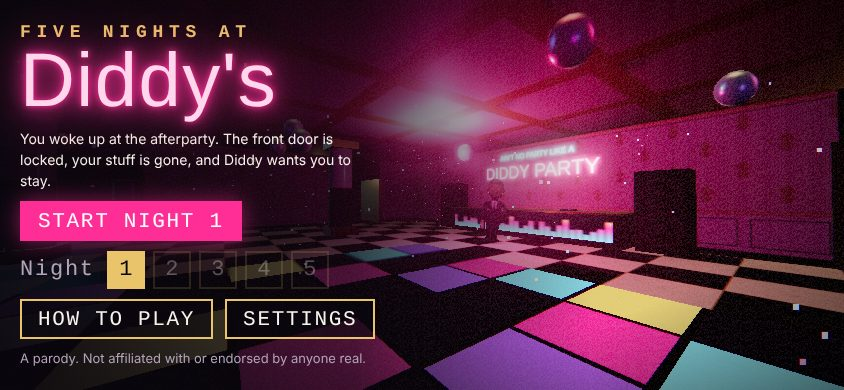
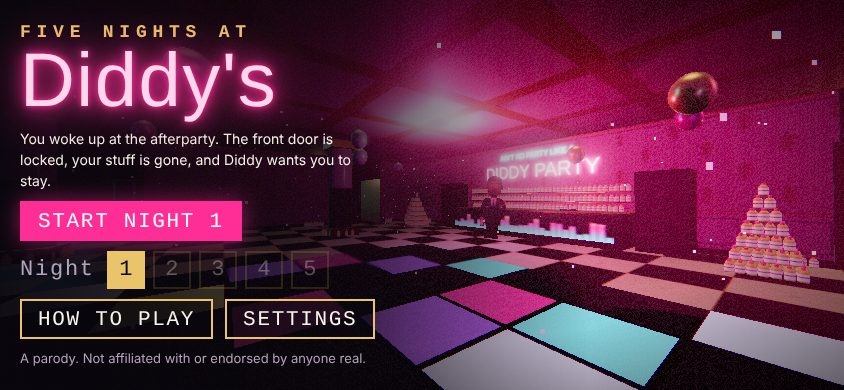
feat: fill Diddy's mansion with baby oil bottles
- ~2,800 background bottles as one instanced mesh: pyramids in corners,
  by the DJ booth and front door, rows along every wall, shelves behind
  the DJ and bar, counters, bookshelf tops, a few floating in the pool
- Bottle skin texture (label + pink cap); Low preset draws ~55%
- Pyramids are solid and block Diddy's nav grid like other furniture
- Fix: ignore Chrome's one-off mouse jump when pointer lock engages,
  which snapped the view upward at the start of a night
- How-to: only glowing bottles can be picked up

Design record: prototypes/five-nights-at-diddys-concept/README.md

Claude-Session: https://claude.ai/code/session_01KMQZugDVU7m4caByqHp5Df

diff --git a/prototypes/five-nights-at-diddys-concept/prototype.html b/prototypes/five-nights-at-diddys-concept/prototype.html
@@ -283,7 +283,7 @@ body.touch .desk-only, body:not(.touch) .touch-only { display: none; }
   <ul class="how">
     <li><b>Escape:</b> find your stuff (phone, wallet, car keys…), then get out the front door in the Grand Foyer.</li>
     <li><b>Or outlast him:</b> survive until 6 AM and the party's over.</li>
-    <li><b>Baby oil:</b> drop a puddle behind you. Diddy slips on it and goes down for a few seconds.</li>
+    <li><b>Baby oil:</b> the house is full of it, but you can only grab the bottles with a pink glow under them. Drop a puddle behind you and Diddy slips on it and goes down for a few seconds.</li>
     <li><b>Flashlight and CCTV</b> share one battery. Spare batteries are lying around.</li>
     <li><b>He hears you sprint</b>, and he spots your flashlight from further away.</li>
     <li><b>Grab the last item and he knows.</b> Run for the door.</li>
@@ -887,6 +887,11 @@ TEX.neonVip = texNeonText([['VIP', 150, 128, '#c85cff']], 512, 256);
 TEX.oilSign = texSign([['BABY OIL', 64, 58], ['1,000 BOTTLES · STAFF ONLY', 30, 124]]);
 TEX.noRun = texSign([['NO RUNNING', 58, 70], ['POOL RULES', 28, 130]], { bg: '#f4f4f0', fg: '#b3121f' });
 TEX.oilBox = texSign([['BABY OIL', 40, 54], ['× 48', 28, 98]], { bg: '#b98a52', fg: '#4a2a0a', w: 256, h: 128, border: false });
+/** Background bottle skin, mapped along the lathe profile: amber body, white label with a pink stripe, pink cap. */
+TEX.oilBottle = canvasTex(8, 256, (g, w, h) => {
+  const band = (v0, v1, c) => { g.fillStyle = c; g.fillRect(0, Math.round((1 - v1) * h), w, Math.round((v1 - v0) * h)); };
+  band(0, 1, '#f0ad37'); band(0.29, 0.415, '#fff4ea'); band(0.345, 0.37, '#ff4fa3'); band(0.5, 0.52, 'rgba(255,240,200,0.5)'); band(0.714, 1, '#ff4fa3');
+}, { repeat: false });
 TEX.banner = canvasTex(512, 256, (g, w, h) => {
   g.fillStyle = '#f7f4ee'; g.fillRect(0, 0, w, h); g.textAlign = 'center'; g.textBaseline = 'middle';
   for (let r = 0; r < 4; r++) for (let c = 0; c < 3; c++) { const x = c * 180 + (r % 2 ? 90 : 0), y = 34 + r * 62; g.font = "900 26px Impact, 'Arial Black', sans-serif"; g.fillStyle = r % 2 ? '#c9a24a' : '#e8247f'; g.fillText(r % 2 ? 'ALL WHITE' : 'DIDDY PARTY', x, y); }
@@ -987,7 +992,7 @@ const PRINT = {
 // =====================================================================
 const colliders = [];
 const lightSources = [];
-const anim = { beams: [], balloons: null, balloonData: [], confetti: null, disco: null, donut: null, waterTex: null, candles: [] };
+const anim = { beams: [], balloons: null, balloonData: [], confetti: null, disco: null, donut: null, waterTex: null, candles: [], hoard: null, hoardTotal: 0 };
 function solid(x0, x1, z0, z1) { colliders.push({ minX: Math.min(x0, x1), maxX: Math.max(x0, x1), minZ: Math.min(z0, z1), maxZ: Math.max(z0, z1) }); }
 function addMesh(geo, mat, x, y, z, { ry = 0, cast = true, receive = true, parent = scene } = {}) {
   const m = new THREE.Mesh(geo, mat); m.position.set(x, y, z); m.rotation.y = ry; m.castShadow = cast; m.receiveShadow = receive; parent.add(m); return m;
@@ -1049,6 +1054,13 @@ function plant(x, z, s = 1) {
 }
 function champagne(x, y, z) { cylAt(0.07, 0.08, 0.26, MAT.bottleGreen, x, y, z, 10); cylAt(0.025, 0.06, 0.12, MAT.bottleGreen, x, y + 0.26, z, 8); cylAt(0.028, 0.028, 0.05, MAT.gold, x, y + 0.36, z, 8); }
 let bottleGeo = null;
+let hoardGeo = null;
+/** Low-poly bottle for the background stockpile; the cap and label come from TEX.oilBottle. */
+function oilHoardGeo() {
+  if (hoardGeo) return hoardGeo;
+  const pts = [[0, 0], [0.075, 0], [0.08, 0.025], [0.08, 0.19], [0.05, 0.235], [0.032, 0.25], [0.032, 0.3], [0, 0.3]].map(([x, y]) => new THREE.Vector2(x, y));
+  hoardGeo = new THREE.LatheGeometry(pts, 7); return hoardGeo;
+}
 function oilBottleGeo() {
   if (bottleGeo) return bottleGeo;
   const pts = [[0, 0], [0.07, 0], [0.08, 0.02], [0.08, 0.2], [0.05, 0.25], [0.03, 0.27], [0.03, 0.3], [0, 0.3]].map(([x, y]) => new THREE.Vector2(x, y));
@@ -1257,6 +1269,62 @@ function buildProps() {
       else if ((cx * 7 + cy * 3) % 5 === 0) { art++; panel(art % 3 ? 1.1 : 1.6, art % 3 ? 1.4 : 2.0, art % 3 ? PRINT.record : PRINT.portrait, wx - dx * 0.05, 2.1, wz - dz * 0.05, ry); }
     }
   }
+  buildOilHoard();
+}
+
+/** Diddy's baby oil stockpile, everywhere: one instanced mesh (one draw call) for every background bottle. */
+function buildOilHoard() {
+  const hero = [], scatter = [], taken = new Set();
+  const free = (x, z, r = 0.12) => !colliders.some((c) => x > c.minX - r && x < c.maxX + r && z > c.minZ - r && z < c.maxZ + r);
+  const put = (list, x, y, z, s = 1, tip = 0) => list.push({ x, y, z, s, tip, ry: srand() * Math.PI * 2 });
+  const row = (x0, z0, x1, z1, y, gap = 0.18) => { const n = Math.max(1, Math.floor(Math.hypot(x1 - x0, z1 - z0) / gap)); for (let i = 0; i <= n; i++) put(hero, lerp(x0, x1, i / n), y, lerp(z0, z1, i / n), 0.95 + srand() * 0.1); };
+  const pyramid = (x, z, levels) => {
+    const g = 0.17;
+    for (let k = 0; k < levels; k++) { const n = levels - k, o = ((n - 1) * g) / 2; for (let i = 0; i < n; i++) for (let j = 0; j < n; j++) put(hero, x - o + i * g, k * 0.3, z - o + j * g); }
+    const h = (levels * g) / 2 + 0.05; solid(x - h, x + h, z - h, z + h);
+  };
+  // stacked pyramids in corners, by the front door and around the house
+  for (const [x, z] of [[30.7, 24.7], [68.3, 24.7], [30.7, 47.3], [68.3, 47.3]]) pyramid(x, z, 6);
+  pyramid(33, 25.9, 7); pyramid(46.9, 25.9, 7); // flanking the DJ, right in the menu shot
+  for (const [x, z, n] of [[44.6, 68.1, 5], [54.4, 68.1, 5], [7.5, 25, 5], [15, 32.2, 5], [70.9, 4.1, 4], [4.2, 58.4, 4], [4.2, 67.6, 4], [20.4, 47.4, 4], [95.3, 43.3, 4], [72.2, 58.2, 4], [3.6, 14.4, 3]]) pyramid(x, z, n);
+  // shelves full of bottles on the wall behind the DJ (the menu looks right at them), and behind the bar
+  for (const y of [1.55, 1.95]) { boxAt(8, 0.04, 0.26, MAT.gold, 40, y, 24.13, { cast: false }); row(36.2, 24.14, 43.8, 24.14, y + 0.04); }
+  for (const y of [1.6, 2.4]) { boxAt(9.6, 0.04, 0.26, MAT.gold, 58, y, 47.86, { cast: false }); row(53.4, 47.86, 62.6, 47.86, y + 0.04); }
+  row(36.4, 24.2, 43.6, 24.2, 1.21); row(53.3, 47.15, 62.7, 47.15, 1.16, 0.3);
+  row(77.3, 3.55, 93.7, 3.55, 0.97); row(81.5, 8.5, 88.5, 8.5, 1.01, 0.4);
+  row(26.7, 11.2, 31.3, 11.2, 2.6, 0.2); row(37.7, 6.8, 42.3, 6.8, 2.6, 0.2);
+  row(15, 3.45, 17, 3.45, 0.9, 0.22); row(5.6, 41, 5.6, 43, 0.46, 0.4); row(80.8, 62, 84.2, 62, 0.85, 0.34);
+  for (const [px, pz] of [[34.5, 31.5], [64.5, 31.5], [34.5, 40.5], [64.5, 40.5]]) for (let a = 0; a < 14; a++) put(hero, px + Math.cos((a / 14) * Math.PI * 2) * 0.78, 0, pz + Math.sin((a / 14) * Math.PI * 2) * 0.78);
+  for (let i = 0; i < 16; i++) put(hero, rand(81.6, 92.4), -0.28, rand(30.6, 41.4), 1.1, 1); // floating in the pool
+  // rows along the foot of the walls in every room and hallway, plus a few knocked over
+  const chance = { '.': 0.32, R: 0.5, L: 0.35, M: 0.55, K: 0.4, O: 0.95, B: 0.6, P: 0.35, V: 0.65, T: 0.45, F: 0.55, C: 0.45 };
+  for (let cy = 0; cy < ROWS; cy++) for (let cx = 0; cx < COLS; cx++) {
+    const ch = tile(cx, cy); if (isWall(ch) || ch === '~' || ch === ':' || ch === 'X') continue;
+    for (const [dx, dz] of [[0, -1], [0, 1], [-1, 0], [1, 0]]) {
+      if (!isWall(tile(cx + dx, cy + dz)) || srand() > chance[roomCode(ch)]) continue;
+      const n = 3 + Math.floor(srand() * 12), rows = n > 8 ? 2 : 1, per = Math.ceil(n / rows), start = 0.15 + srand() * Math.max(0, C - 0.3 - per * 0.17);
+      for (let r = 0; r < rows; r++) for (let i = 0; i < per; i++) {
+        const along = start + i * 0.17 + r * 0.085, depth = 0.17 + r * 0.17; if (along > C - 0.1) continue;
+        const x = dx === 0 ? cx * C + along : (dx < 0 ? cx * C : cx * C + C) - dx * depth;
+        const z = dx === 0 ? (dz < 0 ? cy * C : cy * C + C) - dz * depth : cy * C + along;
+        const key = `${Math.round(x / 0.15)},${Math.round(z / 0.15)}`; if (taken.has(key) || !free(x, z)) continue;
+        taken.add(key); put(scatter, x, 0, z, 0.9 + srand() * 0.2);
+      }
+      if (srand() < 0.35) { const a = 0.4 + srand() * 2.2, d = 0.45 + srand() * 0.25; const x = dx === 0 ? cx * C + a : (dx < 0 ? cx * C : cx * C + C) - dx * d, z = dx === 0 ? (dz < 0 ? cy * C : cy * C + C) - dz * d : cy * C + a; if (free(x, z)) put(scatter, x, 0, z, 1, 1); }
+    }
+  }
+  for (let i = scatter.length - 1; i > 0; i--) { const j = Math.floor(srand() * (i + 1)); [scatter[i], scatter[j]] = [scatter[j], scatter[i]]; }
+  const all = hero.concat(scatter);
+  const mat = new THREE.MeshStandardMaterial({ map: TEX.oilBottle, emissiveMap: TEX.oilBottle, emissive: 0xffffff, emissiveIntensity: 0.14, roughness: 0.16, envMap: ENV, envMapIntensity: 0.8 });
+  const mesh = new THREE.InstancedMesh(oilHoardGeo(), mat, all.length);
+  const m = new THREE.Matrix4(), q = new THREE.Quaternion(), tipQ = new THREE.Quaternion().setFromAxisAngle(new THREE.Vector3(0, 0, 1), Math.PI / 2), up = new THREE.Vector3(0, 1, 0), pos = new THREE.Vector3(), sc = new THREE.Vector3(), tint = new THREE.Color();
+  all.forEach((b, i) => {
+    q.setFromAxisAngle(up, b.ry); if (b.tip) q.multiply(tipQ);
+    m.compose(pos.set(b.x, b.tip ? b.y + 0.08 * b.s : b.y, b.z), q, sc.setScalar(b.s)); mesh.setMatrixAt(i, m);
+    mesh.setColorAt(i, tint.setRGB(1, 0.86 + srand() * 0.14, 0.8 + srand() * 0.2));
+  });
+  mesh.frustumCulled = false; mesh.receiveShadow = true; scene.add(mesh);
+  anim.hoard = mesh; anim.hoardTotal = all.length;
 }
 
 /** Bakes every static prop into one mesh per material: hundreds of draw calls become a few dozen, which phones need. */
@@ -2227,14 +2295,17 @@ document.addEventListener('visibilitychange', () => { if (document.hidden) pause
 document.addEventListener('mousemove', (e) => {
   if (G.mode !== 'play' || G.cctv) return;
   if (document.pointerLockElement === ui.stage || mouseDrag) {
-    const k = lookK(), mx = clamp(e.movementX, -250, 250), my = clamp(e.movementY, -250, 250);
+    // Chrome can report one huge jump as the lock engages; drop the first moves and any spike.
+    if (G.skipMoves > 0) { G.skipMoves--; return; }
+    if (Math.abs(e.movementX) > 220 || Math.abs(e.movementY) > 220) return;
+    const k = lookK(), mx = e.movementX, my = e.movementY;
     G.player.yaw -= mx * k; G.player.pitch = clamp(G.player.pitch - my * k, -1.35, 1.35); G.player.turnVel += mx * k * 0.5;
   }
 });
 ui.stage.addEventListener('mousedown', () => { if (G.mode === 'play' && !document.pointerLockElement) { mouseDrag = true; lockPointer(); } });
 addEventListener('mouseup', () => { mouseDrag = false; });
 document.addEventListener('pointerlockchange', () => {
-  if (document.pointerLockElement === ui.stage) G.hadLock = true;
+  if (document.pointerLockElement === ui.stage) { G.hadLock = true; G.skipMoves = 2; }
   else if (G.hadLock) { G.hadLock = false; pauseGame(); }
 });
 ui.card.addEventListener('click', beginPlay);
@@ -2303,9 +2374,9 @@ ui.faceReset.addEventListener('click', () => { G.face = null; paintDiddy(); try 
 // Quality, resize, main loop
 // =====================================================================
 const QUALITY = {
-  high: { ratio: 1.75, shadows: true, bloom: true, lights: 8, spots: true, confetti: 600 },
-  medium: { ratio: 1.25, shadows: false, bloom: true, lights: 6, spots: false, confetti: 400 },
-  low: { ratio: 1, shadows: false, bloom: false, lights: 5, spots: false, confetti: 220 },
+  high: { ratio: 1.75, shadows: true, bloom: true, lights: 8, spots: true, confetti: 600, hoard: 1 },
+  medium: { ratio: 1.25, shadows: false, bloom: true, lights: 6, spots: false, confetti: 400, hoard: 1 },
+  low: { ratio: 1, shadows: false, bloom: false, lights: 5, spots: false, confetti: 220, hoard: 0.55 },
 };
 const quality = () => QUALITY[Settings.quality] || QUALITY.medium;
 function applyQuality() {
@@ -2316,6 +2387,7 @@ function applyQuality() {
   initLightPool(q.lights);
   for (const b of anim.beams) if (b.light) b.light.visible = q.spots;
   anim.confetti.geometry.setDrawRange(0, q.confetti);
+  anim.hoard.count = Math.floor(anim.hoardTotal * q.hoard); // pyramids and shelves come first, so Low only thins the wall rows
   resize();
 }
 /** If a night runs below ~24 fps, step graphics down one level (once per 5 s window) and say so. */
@@ -2404,7 +2476,7 @@ function boot() {
   requestAnimationFrame(loop);
   // Test hook: advance the simulation in fixed steps without waiting for real frames.
   const simulate = (dt, n) => { for (let i = 0; i < n; i++) { const t = performance.now() / 1000 + i * dt; if (G.mode === 'play') updatePlay(dt, t); updateWorld(dt, t); } };
-  window.FNAD = { G, startNight, beginPlay, setDiddyState, findPath, simulate, NIGHTS, TUNING, renderer, camera, Settings, diddyCanvas };
+  window.FNAD = { G, startNight, beginPlay, setDiddyState, findPath, simulate, NIGHTS, TUNING, renderer, camera, Settings, diddyCanvas, anim };
 }
 boot();
 </script>

diff --git a/prototypes/five-nights-at-diddys-concept/README.md b/prototypes/five-nights-at-diddys-concept/README.md
@@ -51,6 +51,14 @@ and the fonts (Google Fonts) load from CDNs.
 - **His lines:** "Let me take you out shopping, playa!" and "You deserve it, daddy!" while
   chasing. "Ain't no party like a Diddy party!" when he catches you. They're spoken with the
   browser's speech engine and also shown as subtitles.
+- **The stockpile:** about 2,800 baby oil bottles fill the house:
+  - pyramids in the corners and flanking the DJ booth and the front door;
+  - rows along the foot of every wall;
+  - full shelves behind the DJ and the bar;
+  - the kitchen counter, the tops of the bookshelves, and some floating in the pool.
+
+  They're one instanced mesh (one draw call). The Low preset draws about 55% of them, and
+  only the wall rows are thinned. Only bottles with a pink glow under them can be picked up.
 - **Systems:** stamina, a battery shared by the flashlight and the CCTV map, baby oil
   puddles that make him slip, and a final-item trigger that sends him straight at you.
 - **Atmosphere:** party music synthesized with WebAudio (it gets muffled the further you are
